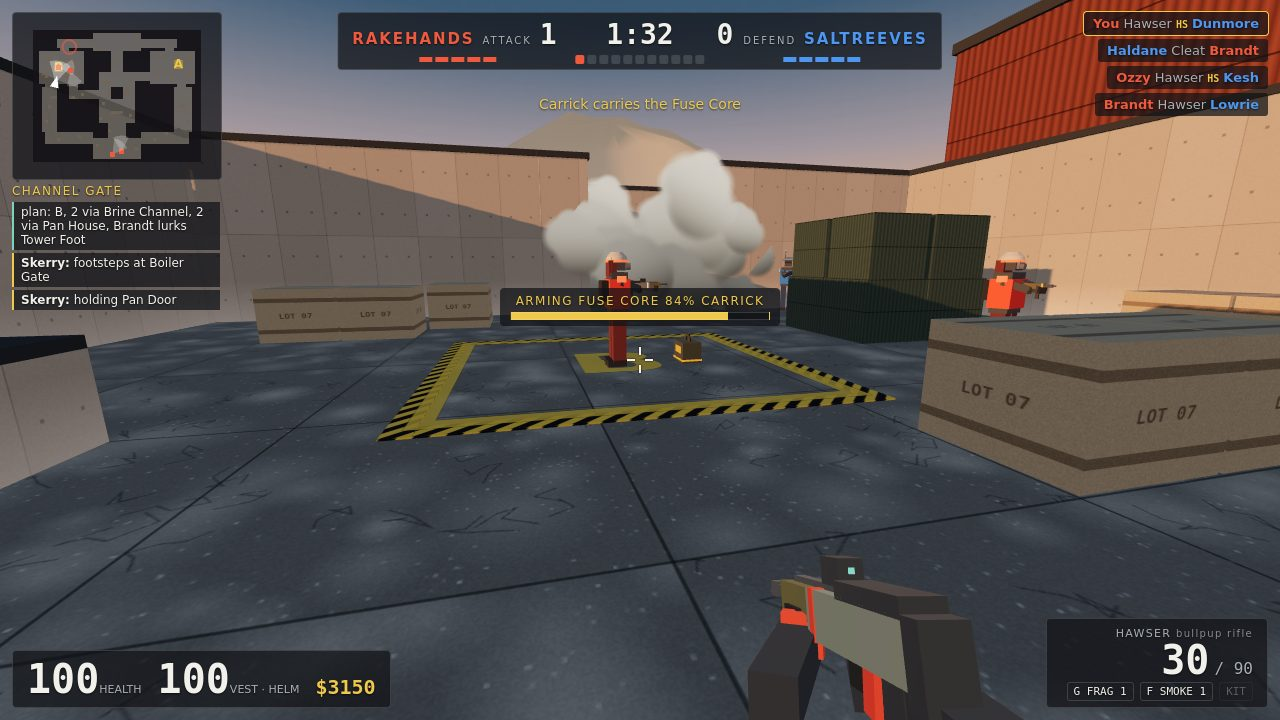
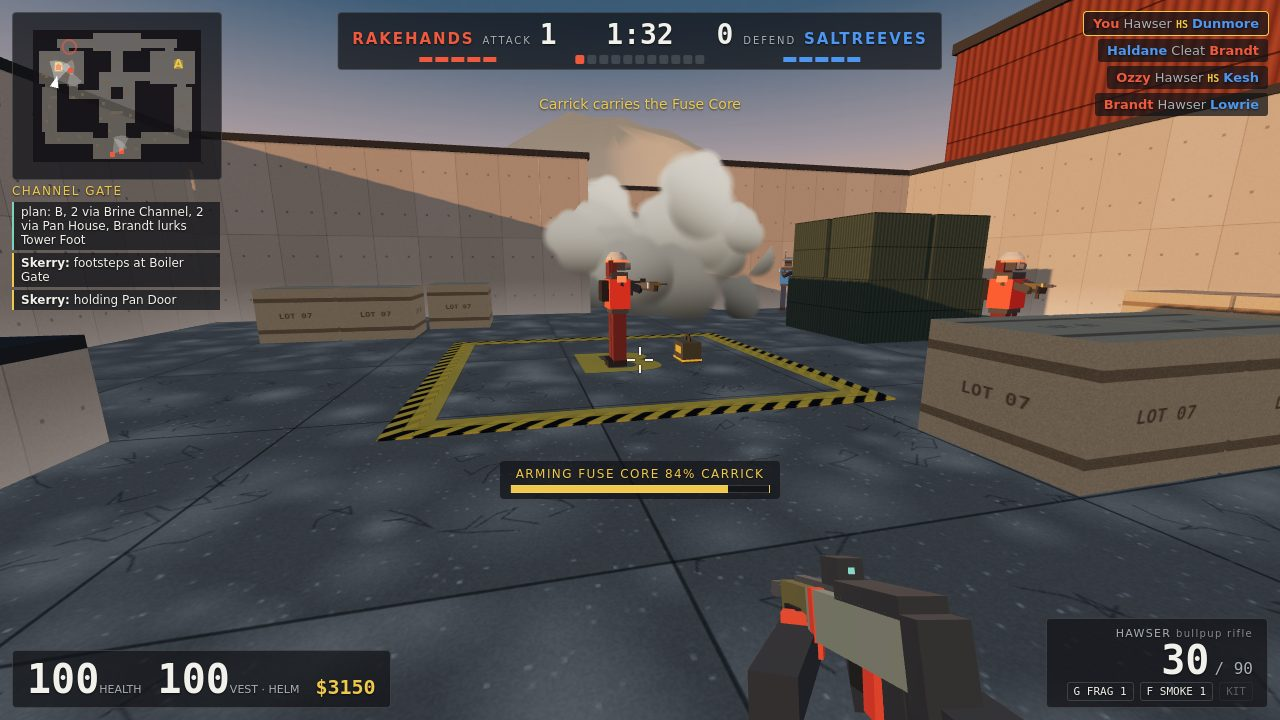
HUD: damage wedge on a ring nearer the crosshair, arming plate below the action
The wedge hung under the score bar and read as part of it (now 28vh from centre); the
ARMING / DISARMING plate sat over the worker's chest (now at 64% height). Fresh screenshots.

Changed region(s): [[0.375, 0.6417, 0.625, 0.7028], [0.375, 0.3972, 0.625, 0.4583]]

diff --git a/game/index.html b/game/index.html
@@ -91,8 +91,8 @@ kbd,#kit span{padding:0 5px;border-radius:3px;font:11px var(--mono)}
 #hitmarker i:nth-child(2n){right:0;bottom:0}
 #damage,#scope{inset:0;opacity:0}
 #damage{background:radial-gradient(transparent 72%,#aa140a44)}
-#damage::after{content:'';position:absolute;left:50%;top:50%;width:150px;height:22px;margin:-11px -75px;background:linear-gradient(#ff3a22,#ff3a2200);clip-path:polygon(0 0,100% 0,70% 100%,30% 100%);transform:rotate(var(--angle)) translateY(-40vh)}
-#progress{top:40%;width:280px;display:none;text-align:center;font-size:12px;padding:6px 10px}
+#damage::after{content:'';position:absolute;left:50%;top:50%;width:150px;height:22px;margin:-11px -75px;background:linear-gradient(#ff3a22,#ff3a2200);clip-path:polygon(0 0,100% 0,70% 100%,30% 100%);transform:rotate(var(--angle)) translateY(-28vh)}
+#progress{top:64%;width:280px;display:none;text-align:center;font-size:12px;padding:6px 10px}
 #progress div{height:8px;margin-top:4px;background:linear-gradient(90deg,var(--paint) var(--p),var(--panel) var(--p))}
 #scope{background:radial-gradient(circle,transparent 33vh,#000 calc(33vh + 2px))}
 #banner{top:76px;text-align:center;padding:10px 30px;opacity:0;transition:opacity .2s}
